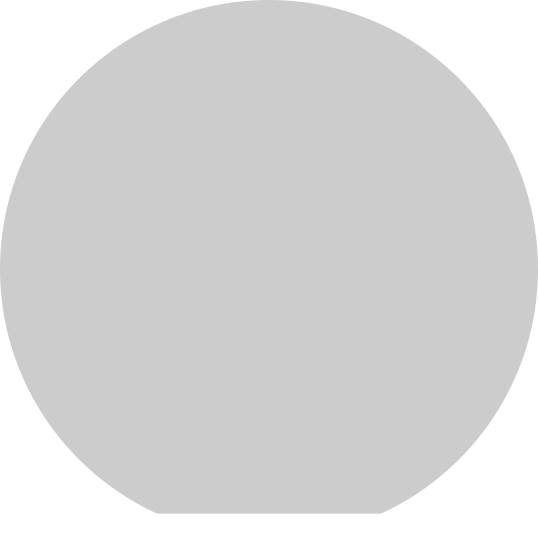
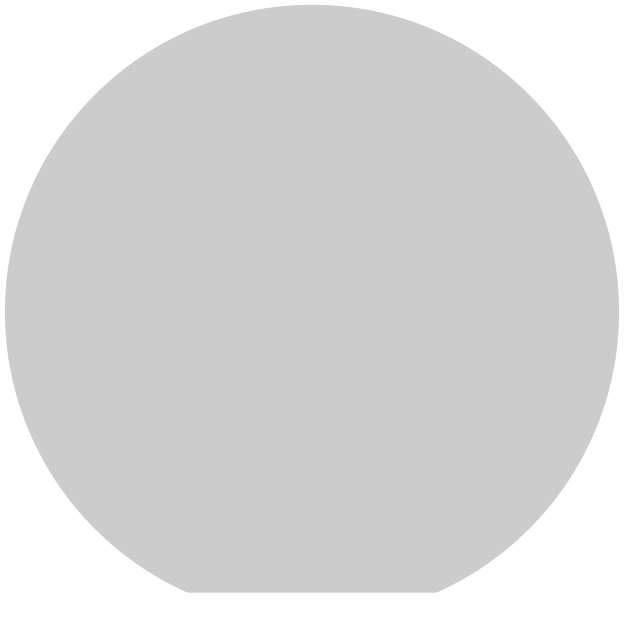
Urgent push batter dying
Urgent push

diff --git a/zhinstlib/gui/wafer_analyzer.py b/zhinstlib/gui/wafer_analyzer.py
@@ -138,8 +138,8 @@ class WaferAnalyzer(QMainWindow):
         self.backgroundWidget.setStyleSheet(style_command)
 
         container_width = self.backgroundWidget.width()
-        lateral_size = min(floor(0.7 * container_width / self.rows),
-                           floor(0.7 * container_width / self.cols))
+        lateral_size = min(floor(0.67 * container_width / self.rows),
+                           floor(0.67 * container_width / self.cols))
         return lateral_size
 
     def create_wafer_container_list(self, directory):
@@ -265,6 +265,7 @@ class WaferAnalyzer(QMainWindow):
             self.zi_device.execute_daqmodule(self._daqmodule_name)
             self._saving_timer.start(self._saving_timeout)
         else:
+            pass
             self.executionButton.setChecked(False)
 
     def acquire_data(self):
@@ -665,7 +666,11 @@ class WaferAnalyzer(QMainWindow):
                 file.write("{}\t{:.3f}\t{:.1f}\t{}\n".format(*line))
 
 if __name__ == '__main__':
+    filepath = Path(__file__).parents[1]
+    qss = filepath / "ui_files" / "wafer_analyzer_style.qss"
     app = QApplication(sys.argv)
+    with open(qss, "r") as fh:
+        app.setStyleSheet(fh.read())
     window = WaferAnalyzer()
     sys.exit(app.exec_())
     # sys.exit()

diff --git a/zhinstlib/custom_widgets/interactive_wafer.py b/zhinstlib/custom_widgets/interactive_wafer.py
@@ -25,7 +25,7 @@ class InteractiveWafer(QWidget):
             for jj in range(1, self.cols + 1):
                 if jj == 1:
                     widgy = QLabel(str(ii))
-                    widgy.setStyleSheet("font-weight: bold;")
+                    widgy.setStyleSheet("font-weight: bold; color:black; fontsize:10px")
                     layout.addWidget(widgy, ii + 1, jj, Qt.AlignVCenter)
 
                     # This widget is used for centering purposes
@@ -34,7 +34,7 @@ class InteractiveWafer(QWidget):
                     layout.addWidget(widgy, ii + 1, jj + self.cols + 1, Qt.AlignVCenter)
                 if ii == 1:
                     widgy = QLabel(chr(ord('A') + jj - 1))
-                    widgy.setStyleSheet("font-weight: bold;")
+                    widgy.setStyleSheet("font-weight: bold; color:black; fontsize:10px")
                     layout.addWidget(widgy, ii, jj + 1, Qt.AlignHCenter)
 
                     # This widget is used for centering purposes
